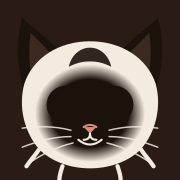
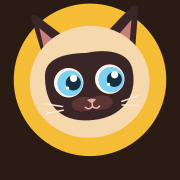
Azami kawaii Bauhaus d'après la base de Yatoni, une pose par page
Claude-Session: https://claude.ai/code/session_01FmbBbPYR3Uqmj4jvUphPos

diff --git a/azami.js b/azami.js
@@ -1,118 +1,128 @@
-// Azami en pied, une pose par page. Dessin vectoriel seal point, yeux bleus.
-// Les parties (tête, yeux, museau) sont partagées ; le corps et l'accessoire changent.
+// Azami, mascotte siamoise kawaii Bauhaus. Base fournie par Yatoni, déclinée en une pose par page.
+// Formes simples, aplats, aucun effet raster. Les animations sont dans styles.css (.azami …).
 
-const C = { seal: '#1C120C', seal2: '#3A2A20', creme: '#F3EBDF', ombre: '#DCCFBB', bleu: '#9CC4E4', bleuF: '#4E7FAE', nez: '#D98A7A', langue: '#E07A80', blanc: '#FFFFFF', fauve: '#B8A48F', bois: '#8E6A45' };
+const K = {
+  choc: '#3A2627', creme: '#F5D8AE', cremeClair: '#F8E4C7', cremeCorps: '#EECFA5',
+  blancOeil: '#FCF4E8', iris: '#7CD2F0', pupille: '#172D40', museau: '#5C3633',
+  nez: '#E6A5A1', bouche: '#F4B5AE', moustache: '#F9E9D5', oreille: '#C77F79',
+  jaune: '#F5BD36', bleu: '#3677A8', rouge: '#D95743', bois: '#B8864E', osier: '#D9B27A', piece: '#F5BD36', pieceBord: '#C7901E',
+};
 
-const DEFS = `<defs>
-  <radialGradient id="mask" cx="50%" cy="50%" r="50%"><stop offset="0" stop-color="${C.seal}"/><stop offset=".7" stop-color="${C.seal}"/><stop offset="1" stop-color="${C.seal}" stop-opacity="0"/></radialGradient>
-  <radialGradient id="iris" cx="40%" cy="35%" r="65%"><stop offset="0" stop-color="#D9EBF8"/><stop offset=".5" stop-color="${C.bleu}"/><stop offset="1" stop-color="${C.bleuF}"/></radialGradient>
-  <linearGradient id="point" x1="0" y1="0" x2="0" y2="1"><stop offset="0" stop-color="${C.creme}"/><stop offset="1" stop-color="${C.seal}"/></linearGradient>
-</defs>`;
+// Formes Bauhaus derrière Azami, en option.
+function fond({ circle = K.jaune, dot = K.bleu, square = K.rouge } = {}) {
+  return `<g class="fond">
+    ${circle ? `<circle cx="405" cy="344" r="233" fill="${circle}"/>` : ''}
+    ${dot ? `<circle cx="663" cy="206" r="51" fill="${dot}"/>` : ''}
+    ${square ? `<rect x="132" y="587" width="123" height="110" fill="${square}"/>` : ''}
+    <path d="M154 203 V461" fill="none" stroke="${K.choc}" stroke-width="8"/>
+  </g>`;
+}
 
-// Tête, repère local : centre du crâne en (0,0), largeur ~150. Oreilles orientables.
-function head({ earL = 0, earR = 0, open = 1, lookX = 0, lookY = 0, happy = false, lid = 0, mouth = 'smile', brows = false } = {}) {
-  const eye = (cx) => `
-    <circle cx="${cx}" cy="4" r="17" fill="${C.creme}"/>
-    <g style="transform:translate(${lookX}px,${lookY}px)">
-      <circle cx="${cx}" cy="4" r="12.5" fill="url(#iris)"/><circle cx="${cx}" cy="4.5" r="6.5" fill="#120C08"/>
-      <circle cx="${cx + 4}" cy="-1" r="3" fill="${C.blanc}"/><circle cx="${cx - 4}" cy="8" r="1.5" fill="${C.blanc}" opacity=".7"/>
+const queue = (cls = '') => `<g class="queue ${cls}"><path d="M519 579 C596 531 658 550 650 617 C648 645 626 664 600 660" fill="none" stroke="${K.choc}" stroke-width="43" stroke-linecap="round"/></g>`;
+
+const corps = () => `<g class="corps">
+  <ellipse cx="410" cy="574" rx="137" ry="141" fill="${K.cremeCorps}"/>
+  <ellipse cx="410" cy="581" rx="73" ry="102" fill="${K.cremeClair}"/>
+  <rect x="332" y="609" width="58" height="78" rx="29" fill="${K.choc}"/>
+  <rect x="430" y="609" width="58" height="78" rx="29" fill="${K.choc}"/>
+  <ellipse cx="359" cy="680" rx="43" ry="24" fill="${K.choc}"/>
+  <ellipse cx="460" cy="680" rx="43" ry="24" fill="${K.choc}"/>
+</g>`;
+
+// Yeux : look décale la pupille, lid 0..1 ferme la paupière, happy = œil fermé en arc de sourire.
+function oeil(cx, { look = [0, 0], lid = 0, happy = false, brow = 0 } = {}) {
+  const [lx, ly] = look;
+  return `<g class="oeil" style="transform-origin:${cx}px 347px">
+    <circle cx="${cx}" cy="347" r="45" fill="${K.blancOeil}"/>
+    <g style="transform:translate(${lx}px,${ly}px)">
+      <circle cx="${cx + 4}" cy="349" r="39" fill="${K.iris}"/>
+      <circle cx="${cx + 14}" cy="349" r="23" fill="${K.pupille}"/>
+      <circle cx="${cx + 16}" cy="335" r="11" fill="#FFFFFF"/>
+      <circle cx="${cx - 5}" cy="363" r="5" fill="#FFFFFF"/>
     </g>
-    ${happy ? `<circle cx="${cx}" cy="4" r="18" fill="${C.seal}"/><path d="M${cx - 13} 2 Q${cx} 16 ${cx + 13} 2" fill="none" stroke="${C.creme}" stroke-width="3" stroke-linecap="round"/>` : ''}
-    <g style="transform-origin:${cx}px -14px;transform:scaleY(${happy ? 0 : lid})"><circle cx="${cx}" cy="4" r="18" fill="${C.seal}"/></g>
-    ${happy ? '' : `<g class="blink" style="transform-origin:${cx}px -14px;transform:scaleY(0)"><circle cx="${cx}" cy="4" r="18" fill="${C.seal}"/></g>`}`;
-  const mouths = {
-    smile: `<path d="M0 31 Q0 37 -6 37 M0 31 Q0 37 6 37 M-11 37 Q0 46 11 37" fill="none" stroke="${C.creme}" stroke-width="2" stroke-linecap="round"/>`,
-    hmm:   `<path d="M0 31 Q0 37 -6 37 M0 31 Q0 37 6 37 M-8 41 Q0 39 9 42" fill="none" stroke="${C.creme}" stroke-width="2" stroke-linecap="round"/>`,
-    hungry:`<path d="M0 31 Q0 37 -6 37 M0 31 Q0 37 6 37" fill="none" stroke="${C.creme}" stroke-width="2" stroke-linecap="round"/><path d="M1 38 Q6 48 0 49 Q-5 49 -4 41" fill="${C.langue}" stroke="${C.creme}" stroke-width="1"/>`,
-    yawn:  `<ellipse cx="0" cy="40" rx="8" ry="9" fill="${C.seal2}" stroke="${C.creme}" stroke-width="1.6"/><path d="M-4 45 Q0 50 4 45 Z" fill="${C.langue}"/>`,
-    meow:  `<path d="M0 31 Q0 36 -5 36 M0 31 Q0 36 5 36" fill="none" stroke="${C.creme}" stroke-width="2" stroke-linecap="round"/><ellipse cx="0" cy="42" rx="6" ry="5.5" fill="${C.seal2}" stroke="${C.creme}" stroke-width="1.6"/>`,
+    ${happy ? `<circle cx="${cx}" cy="347" r="47" fill="${K.choc}"/><path d="M${cx - 30} 352 Q${cx} 386 ${cx + 30} 352" fill="none" stroke="${K.blancOeil}" stroke-width="9" stroke-linecap="round"/>` : ''}
+    ${lid ? `<g style="transform-origin:${cx}px 300px;transform:scaleY(${lid})"><circle cx="${cx}" cy="347" r="47" fill="${K.choc}"/></g>` : ''}
+    ${brow ? `<path d="M${cx - 44} ${300 - brow * 8} L${cx + 40} ${300 + brow * 12}" stroke="${K.choc}" stroke-width="14" stroke-linecap="round" transform="${brow < 0 ? `scale(-1 1) translate(${-2 * cx} 0)` : ''}"/>` : ''}
+    ${happy ? '' : `<g class="paupiere" style="transform-origin:${cx}px 300px;transform:scaleY(0)"><circle cx="${cx}" cy="347" r="47" fill="${K.choc}"/></g>`}
+  </g>`;
+}
+
+function bouche(kind = 'smile') {
+  const m = {
+    smile: `<path d="M407 417 V425 M407 425 Q396 438 385 426 M407 425 Q418 438 429 426" fill="none" stroke="${K.bouche}" stroke-width="4.5" stroke-linecap="round" stroke-linejoin="round"/>`,
+    hmm:   `<path d="M407 417 V425 M392 432 Q407 428 424 434" fill="none" stroke="${K.bouche}" stroke-width="4.5" stroke-linecap="round"/>`,
+    tongue:`<path d="M407 417 V425 M407 425 Q396 438 385 426 M407 425 Q418 438 429 426" fill="none" stroke="${K.bouche}" stroke-width="4.5" stroke-linecap="round" stroke-linejoin="round"/><path d="M398 432 Q407 456 418 432 Z" fill="${K.nez}"/>`,
+    open:  `<ellipse cx="407" cy="436" rx="14" ry="17" fill="${K.museau}" stroke="${K.bouche}" stroke-width="4"/><path d="M398 444 Q407 456 416 444 Z" fill="${K.nez}"/>`,
+    yawn:  `<ellipse cx="407" cy="438" rx="18" ry="22" fill="${K.museau}" stroke="${K.bouche}" stroke-width="4"/><path d="M396 448 Q407 462 418 448 Z" fill="${K.nez}"/>`,
+    small: `<path d="M407 417 V424 M400 428 Q407 432 414 428" fill="none" stroke="${K.bouche}" stroke-width="4.5" stroke-linecap="round"/>`,
   };
-  return `<g class="head">
-    <g class="ear" style="transform-origin:-36px -22px;--r:${earL}deg;transform:rotate(${earL}deg)"><path d="M-62 -10 C-70 -34 -70 -58 -64 -78 C-48 -64 -32 -52 -18 -36 Z" fill="${C.seal}"/><path d="M-54 -16 C-58 -34 -58 -50 -56 -64 C-46 -54 -36 -44 -28 -34 Z" fill="${C.seal2}"/></g>
-    <g class="ear" style="transform-origin:36px -22px;--r:${earR}deg;transform:rotate(${earR}deg)"><path d="M62 -10 C70 -34 70 -58 64 -78 C48 -64 32 -52 18 -36 Z" fill="${C.seal}"/><path d="M54 -16 C58 -34 58 -50 56 -64 C46 -54 36 -44 28 -34 Z" fill="${C.seal2}"/></g>
-    <path d="M0 -56 C30 -56 54 -40 62 -16 C68 6 62 30 48 46 C36 58 18 64 0 64 C-18 64 -36 58 -48 46 C-62 30 -68 6 -62 -16 C-54 -40 -30 -56 0 -56 Z" fill="${C.creme}"/>
-    <path d="M-48 46 C-52 52 -56 56 -60 62 M48 46 C52 52 56 56 60 62 M-26 62 C-28 68 -29 72 -29 76 M26 62 C28 68 29 72 29 76" stroke="${C.creme}" stroke-width="4" stroke-linecap="round"/>
-    <ellipse cx="0" cy="12" rx="52" ry="46" fill="url(#mask)"/>
-    <path d="M0 -50 C10 -50 18 -42 20 -32 C12 -36 6 -37 0 -37 C-6 -37 -12 -36 -20 -32 C-18 -42 -10 -50 0 -50 Z" fill="${C.seal}" opacity=".9"/>
-    ${brows ? `<path d="M-42 -20 L-16 -10 M42 -20 L16 -10" stroke="${C.seal}" stroke-width="3.5" stroke-linecap="round"/>` : ''}
-    ${eye(-23)}${eye(23)}
-    <path d="M-6 25 L6 25 L0 31 Z" fill="${C.nez}"/><path d="M-6 25 Q0 21 6 25" fill="none" stroke="${C.nez}" stroke-width="2" stroke-linecap="round"/>
-    ${mouths[mouth] || mouths.smile}
-    <g stroke="${C.creme}" stroke-width="1.4" stroke-linecap="round" opacity=".85" fill="none"><path d="M-18 28 C-34 24 -48 24 -64 26 M-18 34 C-34 34 -48 38 -64 44 M-16 40 C-32 44 -44 50 -56 58 M18 28 C34 24 48 24 64 26 M18 34 C34 34 48 38 64 44 M16 40 C32 44 44 50 56 58"/></g>
-  </g>`;
+  return m[kind] || m.smile;
 }
 
-// Corps assis de face : poitrail crème, pattes avant seal, queue seal.
-function sitBody({ tail = 'left' } = {}) {
-  const t = tail === 'left'
-    ? `<path d="M-58 150 C-100 150 -120 120 -112 92 C-108 78 -96 72 -88 78" fill="none" stroke="${C.seal}" stroke-width="16" stroke-linecap="round"/>`
-    : `<path d="M58 150 C100 150 120 120 112 92 C108 78 96 72 88 78" fill="none" stroke="${C.seal}" stroke-width="16" stroke-linecap="round"/>`;
-  return `<g class="body">
-    ${t}
-    <path d="M0 40 C44 40 76 70 78 112 C80 134 70 152 56 158 L-56 158 C-70 152 -80 134 -78 112 C-76 70 -44 40 0 40 Z" fill="${C.creme}"/>
-    <path d="M-70 128 C-70 140 -64 152 -56 158 L-28 158 C-30 146 -36 134 -46 126 Z M70 128 C70 140 64 152 56 158 L28 158 C30 146 36 134 46 126 Z" fill="${C.ombre}"/>
-    <path d="M-40 100 C-40 130 -40 150 -38 158 L-18 158 C-16 146 -18 128 -22 104 Z" fill="url(#point)"/>
-    <path d="M40 100 C40 130 40 150 38 158 L18 158 C16 146 18 128 22 104 Z" fill="url(#point)"/>
-    <ellipse cx="-29" cy="158" rx="13" ry="7" fill="${C.seal}"/><ellipse cx="29" cy="158" rx="13" ry="7" fill="${C.seal}"/>
-    <g fill="${C.seal2}"><circle cx="-36" cy="157" r="2"/><circle cx="-29" cy="155" r="2"/><circle cx="-22" cy="157" r="2"/><circle cx="22" cy="157" r="2"/><circle cx="29" cy="155" r="2"/><circle cx="36" cy="157" r="2"/></g>
-  </g>`;
+function tete({ tilt = -5, look, lid, happy, brows = 0, mouth = 'smile', extra = '' } = {}) {
+  return `<g class="tete-mobile"><g transform="rotate(${tilt} 406 363)">
+    <path d="M274 282 L245 143 Q242 125 262 135 L356 220 Z" fill="${K.choc}"/>
+    <path d="M449 222 L552 132 Q571 122 572 143 L548 288 Z" fill="${K.choc}"/>
+    <path d="M277 253 L266 173 L324 231 Z" fill="${K.oreille}"/>
+    <path d="M485 234 L549 172 L534 258 Z" fill="${K.oreille}"/>
+    <ellipse cx="405" cy="350" rx="183" ry="171" fill="${K.creme}"/>
+    <path d="M270 327 C271 270 327 256 403 261 C481 252 536 276 539 327 C547 408 492 466 408 467 C313 470 264 417 270 327 Z" fill="${K.choc}"/>
+    ${oeil(341, { look, lid, happy, brow: brows })}
+    ${oeil(467, { look, lid, happy, brow: -brows })}
+    <ellipse cx="380" cy="416" rx="36" ry="22" fill="${K.museau}"/>
+    <ellipse cx="434" cy="416" rx="36" ry="22" fill="${K.museau}"/>
+    <path d="M392 405 Q406 398 420 405 L407 417 Z" fill="${K.nez}"/>
+    ${bouche(mouth)}
+    <path d="M316 418 L264 405 M317 429 L266 435 M498 418 L550 405 M498 429 L548 435" fill="none" stroke="${K.moustache}" stroke-width="4.5" stroke-linecap="round"/>
+    ${extra}
+  </g></g>`;
 }
 
-const svg = (inner, vb = '-150 -90 300 270') => `<svg class="azami" viewBox="${vb}" aria-hidden="true">${DEFS}${inner}</svg>`;
+const svg = (inner, vb = '110 100 580 620') => `<svg class="azami" viewBox="${vb}" aria-hidden="true">${inner}</svg>`;
 
 export const AZAMI = {
-  // Accueil : assise bien droite, queue enroulée, contente de vous voir.
-  maison: () => svg(sitBody({ tail: 'left' }) + head({ mouth: 'smile', lookX: 0, lookY: 0 })),
+  // Accueil : la base, telle quelle. Queue qui remue, tête qui s'incline, clignements.
+  maison: () => svg(fond() + queue() + corps() + tete()),
 
-  // Ménage : debout sur ses pattes arrière, balai dans les pattes, sourcils froncés.
-  menage: () => svg(`
-    <g class="body">
-      <path d="M46 170 C70 170 86 140 82 100 C78 70 48 56 24 62 L-24 62 C-48 56 -78 70 -82 100 C-86 140 -70 170 -46 170 Z" fill="${C.creme}"/>
-      <path d="M-30 110 C-32 140 -30 160 -26 170 L-6 170 C-4 150 -8 126 -14 108 Z M30 110 C32 140 30 160 26 170 L6 170 C4 150 8 126 14 108 Z" fill="url(#point)"/>
-      <ellipse cx="-18" cy="170" rx="14" ry="7" fill="${C.seal}"/><ellipse cx="18" cy="170" rx="14" ry="7" fill="${C.seal}"/>
-      <path d="M-70 168 C-110 160 -124 130 -112 104" fill="none" stroke="${C.seal}" stroke-width="14" stroke-linecap="round"/>
-      <g class="broom" style="transform-origin:62px 84px"><path d="M62 -60 L62 150" stroke="${C.bois}" stroke-width="6" stroke-linecap="round"/><path d="M44 148 L80 148 L90 178 L34 178 Z" fill="${C.fauve}"/><g stroke="${C.seal2}" stroke-width="1.6"><path d="M44 156 L40 176 M52 150 L50 178 M62 150 L62 178 M72 150 L74 178 M80 156 L84 176"/></g><rect x="52" y="140" width="20" height="9" rx="2" fill="${C.seal2}"/></g>
-      <path d="M-44 80 C-62 90 -66 106 -56 120" fill="none" stroke="${C.creme}" stroke-width="15" stroke-linecap="round"/><ellipse cx="-56" cy="122" rx="9" ry="8" fill="${C.seal}"/>
-      <path d="M44 76 C56 80 62 86 62 96" fill="none" stroke="${C.creme}" stroke-width="15" stroke-linecap="round"/><ellipse cx="62" cy="100" rx="9" ry="8" fill="${C.seal}"/>
-    </g>
-    ${head({ earL: -10, earR: 10, lid: .25, lookX: 2, mouth: 'hmm', brows: true })}`),
+  // Ménage : balai dans la patte, sourcils froncés, bouche décidée.
+  menage: () => svg(
+    fond({ circle: K.jaune }) + queue() + corps()
+    + `<g class="balai" style="transform-origin:560px 560px"><path d="M560 300 V640" stroke="${K.bois}" stroke-width="16" stroke-linecap="round"/><path d="M520 630 L600 630 L620 720 L500 720 Z" fill="${K.osier}"/><path d="M522 650 L512 716 M540 636 L536 718 M560 634 L560 718 M580 636 L584 718 M598 650 L608 716" stroke="${K.bois}" stroke-width="4"/><rect x="536" y="612" width="48" height="22" rx="6" fill="${K.choc}"/></g>
+       <rect x="500" y="520" width="58" height="78" rx="29" fill="${K.choc}" transform="rotate(-40 529 559)"/>`
+    + tete({ tilt: 3, look: [6, -4], brows: 1, mouth: 'hmm' })
+  ),
 
-  // Courses : assise dans un cabas en osier, une sardine dans la patte, la langue sortie.
-  courses: () => svg(`
-    <path d="M-100 90 L100 90 L88 176 L-88 176 Z" fill="${C.fauve}"/>
-    <g stroke="${C.seal2}" stroke-width="1.5" opacity=".6"><path d="M-96 108 L96 108 M-94 126 L94 126 M-92 144 L92 144 M-90 162 L90 162"/><path d="M-70 90 L-64 176 M-40 90 L-36 176 M-10 90 L-8 176 M20 90 L18 176 M50 90 L46 176 M80 90 L74 176"/></g>
-    <path d="M-60 90 C-60 50 60 50 60 90" fill="none" stroke="${C.bois}" stroke-width="7" stroke-linecap="round"/>
-    <g style="transform:translate(0,-10px) scale(.92)">
-      ${sitBody({ tail: 'right' })}
-    </g>
-    <g class="fish" style="transform-origin:90px 80px"><path d="M66 80 C80 64 102 64 116 80 C102 96 80 96 66 80 Z" fill="${C.bleu}"/><path d="M116 80 L132 70 L126 80 L132 90 Z" fill="${C.bleu}"/><circle cx="78" cy="77" r="2.5" fill="${C.seal}"/><path d="M96 72 C104 80 104 84 98 90" fill="none" stroke="${C.bleuF}" stroke-width="1.5"/></g>
-    <path d="M-100 90 L100 90 L96 118 L-96 118 Z" fill="${C.fauve}"/>
-    <path d="M-96 108 L96 108" stroke="${C.seal2}" stroke-width="1.5" opacity=".6"/>
-    ${head({ earL: 4, earR: -4, happy: true, mouth: 'hungry' })}`),
+  // Courses : dans un cabas en osier, une sardine, la langue sortie, yeux ravis.
+  courses: () => svg(
+    fond({ square: null }) + queue()
+    + `<path d="M250 560 C250 500 570 500 570 560" fill="none" stroke="${K.bois}" stroke-width="18" stroke-linecap="round"/>`
+    + corps()
+    + `<path d="M232 600 L588 600 L566 740 L254 740 Z" fill="${K.osier}"/>
+       <g stroke="${K.bois}" stroke-width="4" opacity=".8"><path d="M240 634 H580 M246 668 H574 M252 702 H568"/><path d="M300 600 L306 740 M380 600 L382 740 M460 600 L458 740 M540 600 L534 740"/></g>
+       <g class="poisson" style="transform-origin:590px 580px"><path d="M560 580 C590 548 640 548 670 580 C640 612 590 612 560 580 Z" fill="${K.bleu}"/><path d="M670 580 L706 556 L694 580 L706 604 Z" fill="${K.bleu}"/><circle cx="590" cy="574" r="6" fill="${K.choc}"/></g>`
+    + tete({ tilt: -8, happy: true, mouth: 'tongue' })
+  ),
 
-  // Argent : à sa petite table, lunettes, piles de pièces, une pièce entre les coussinets.
-  argent: () => svg(`
-    ${sitBody({ tail: 'left' })}
-    <rect x="-120" y="118" width="240" height="12" rx="3" fill="${C.bois}"/><rect x="-108" y="130" width="10" height="46" fill="${C.bois}"/><rect x="98" y="130" width="10" height="46" fill="${C.bois}"/>
-    <g class="coins"><g fill="#E6C25A" stroke="#B8923A" stroke-width="2"><rect x="-100" y="106" width="36" height="7" rx="3"/><rect x="-100" y="98" width="36" height="7" rx="3"/><rect x="-100" y="90" width="36" height="7" rx="3"/><rect x="-100" y="82" width="36" height="7" rx="3"/><rect x="60" y="106" width="36" height="7" rx="3"/><rect x="60" y="98" width="36" height="7" rx="3"/><rect x="66" y="90" width="24" height="7" rx="3"/></g>
-    <g class="coin" style="transform-origin:0px 100px"><circle cx="0" cy="100" r="17" fill="#E6C25A" stroke="#B8923A" stroke-width="2.5"/><text x="0" y="106" text-anchor="middle" font-family="Hanken Grotesk, sans-serif" font-size="15" font-weight="800" fill="#8A6A20">1</text></g></g>
-    <path d="M-34 96 C-30 106 -22 112 -12 112 M34 96 C30 106 22 112 12 112" fill="none" stroke="${C.seal}" stroke-width="14" stroke-linecap="round"/>
-    ${head({ lookY: 7, lid: .18, mouth: 'hmm' })}
-    <g fill="none" stroke="${C.fauve}" stroke-width="2.5"><circle cx="-23" cy="4" r="21"/><circle cx="23" cy="4" r="21"/><path d="M-2 4 L2 4 M-44 2 L-60 -6 M44 2 L60 -6"/></g>`),
+  // Argent : lunettes rondes, pièces empilées, une pièce entre les pattes, regard vers le bas.
+  argent: () => svg(
+    fond({ circle: K.jaune, square: null }) + queue() + corps()
+    + `<rect x="150" y="640" width="520" height="22" rx="6" fill="${K.bois}"/>
+       <g fill="${K.piece}" stroke="${K.pieceBord}" stroke-width="4"><rect x="176" y="616" width="90" height="22" rx="11"/><rect x="180" y="594" width="90" height="22" rx="11"/><rect x="176" y="572" width="90" height="22" rx="11"/><rect x="560" y="616" width="90" height="22" rx="11"/><rect x="556" y="594" width="90" height="22" rx="11"/></g>
+       <g class="piece" style="transform-origin:410px 600px"><circle cx="410" cy="600" r="42" fill="${K.piece}" stroke="${K.pieceBord}" stroke-width="5"/><text x="410" y="614" text-anchor="middle" font-family="Hanken Grotesk, Arial, sans-serif" font-size="40" font-weight="800" fill="${K.pieceBord}">1</text></g>
+       <rect x="332" y="560" width="58" height="78" rx="29" fill="${K.choc}" transform="rotate(35 361 599)"/><rect x="430" y="560" width="58" height="78" rx="29" fill="${K.choc}" transform="rotate(-35 459 599)"/>`
+    + tete({ tilt: -3, look: [0, 12], lid: .22, mouth: 'small', extra: `<g fill="none" stroke="${K.choc}" stroke-width="9"><circle cx="341" cy="347" r="56"/><circle cx="467" cy="347" r="56"/><path d="M397 347 H411 M285 340 L240 320 M523 340 L568 320"/></g>` })
+  ),
 
-  // Nuit : roulée en boule, queue sur le nez, petit ronflement.
-  nuit: () => svg(`
-    <ellipse cx="0" cy="120" rx="118" ry="58" fill="${C.creme}"/>
-    <path d="M-60 150 C-40 174 20 176 60 160" fill="none" stroke="${C.ombre}" stroke-width="10" stroke-linecap="round"/>
-    <path d="M110 120 C130 100 110 70 70 80 C40 88 20 100 0 106" fill="none" stroke="${C.seal}" stroke-width="16" stroke-linecap="round"/>
-    <ellipse cx="-78" cy="158" rx="16" ry="8" fill="${C.seal}"/><ellipse cx="-50" cy="164" rx="16" ry="8" fill="${C.seal}"/>
-    <g style="transform:translate(-30px,88px) rotate(-12deg) scale(.9)">${head({ earL: 10, earR: -6, lid: .9, lookY: 4, mouth: 'smile' })}</g>
-    <path class="zz" d="M70 10 L88 10 L70 28 L88 28" fill="none" stroke="${C.bleu}" stroke-width="3" stroke-linecap="round" stroke-linejoin="round"/>
-    <path class="zz z2" d="M96 -18 L108 -18 L96 -6 L108 -6" fill="none" stroke="${C.bleu}" stroke-width="2.5" stroke-linecap="round" stroke-linejoin="round"/>`),
+  // Nuit : yeux fermés, bâillement, croissant de lune et petits Z.
+  nuit: () => svg(
+    fond({ circle: '#2E4C64', dot: K.jaune, square: null }) + queue() + corps()
+    + tete({ tilt: 8, lid: .92, mouth: 'yawn' })
+    + `<g class="zz"><path d="M600 300 H650 L600 350 H650" fill="none" stroke="${K.jaune}" stroke-width="10" stroke-linecap="round" stroke-linejoin="round"/></g><g class="zz z2"><path d="M650 220 H684 L650 254 H684" fill="none" stroke="${K.jaune}" stroke-width="8" stroke-linecap="round" stroke-linejoin="round"/></g>`
+  ),
 
-  // Miaulement : debout, bouche ouverte, utilisée un instant quand Azami miaule.
-  meow: () => svg(sitBody({ tail: 'right' }) + head({ earL: -4, earR: 4, happy: true, mouth: 'meow' })),
+  // Miaulement : bouche grande ouverte, yeux fermés de plaisir.
+  meow: () => svg(fond() + queue('vite') + corps() + tete({ tilt: -10, happy: true, mouth: 'open' })),
 
-  // Icône : tête seule, cadrée serré.
-  icon: () => svg(head({ mouth: 'smile' }), '-85 -95 170 170'),
+  // Icône : tête seule sur le cercle jaune.
+  icon: () => svg(`<rect x="130" y="100" width="550" height="550" fill="#2A1C15"/><circle cx="405" cy="344" r="233" fill="${K.jaune}"/>` + tete({ tilt: -5 }), '130 100 550 550'),
 };

diff --git a/styles.css b/styles.css
@@ -232,31 +232,32 @@ details.fold[open] > summary::before { content: "− "; }
 .glance .g-num { font-weight: 800; font-size: 18px; flex: none; }
 .glance .late { color: var(--bleu); font-weight: 700; }
 
-/* Azami : une pose par page, animée doucement ------------------------- */
+/* Azami : une pose par page, kawaii Bauhaus, animée doucement ------------ */
 
-.azami { display: block; width: 190px; height: 171px; margin: 4px auto 0; }
-.azami-btn { all: unset; cursor: pointer; display: block; width: 190px; margin: 0 auto; }
-.azami-btn:focus-visible { outline: 2px solid var(--bleu); outline-offset: 4px; border-radius: 20px; }
-.azami .blink { animation: blink 6s ease-in-out infinite; }
-.azami .eye + .eye .blink { animation-delay: .05s; }
-@keyframes blink { 0%, 90%, 100% { transform: scaleY(0); } 93% { transform: scaleY(1); } }
-.azami .ear { animation: twitch 7s ease-in-out infinite; }
-.azami .ear + .ear { animation-delay: 3.5s; }
-@keyframes twitch { 0%, 82%, 100% { transform: rotate(var(--r, 0deg)); } 86% { transform: rotate(calc(var(--r, 0deg) - 8deg)); } 90% { transform: rotate(calc(var(--r, 0deg) + 3deg)); } }
-.azami .coin { animation: flip 4s ease-in-out infinite; }
-@keyframes flip { 0%, 70%, 100% { transform: scaleX(1); } 85% { transform: scaleX(-1); } }
-.azami .zz { animation: float 3s ease-in-out infinite; opacity: 0; }
-.azami .z2 { animation-delay: 1.2s; }
-@keyframes float { 0% { transform: translateY(6px); opacity: 0; } 30%, 60% { opacity: 1; } 100% { transform: translateY(-14px); opacity: 0; } }
-.azami .fish { animation: wiggle 2.4s ease-in-out infinite; }
-@keyframes wiggle { 0%, 100% { transform: rotate(0); } 50% { transform: rotate(-8deg); } }
-.azami .broom { animation: sweep 3s ease-in-out infinite; }
-@keyframes sweep { 0%, 100% { transform: rotate(0); } 50% { transform: rotate(-6deg); } }
+.azami { display: block; width: 210px; height: 225px; margin: 0 auto; }
+.azami-btn { all: unset; cursor: pointer; display: block; width: 210px; margin: 0 auto; }
+.azami-btn:focus-visible { outline: 2px solid var(--bleu); outline-offset: 4px; border-radius: 24px; }
+.azami .queue { transform-origin: 520px 576px; animation: remue 3.2s ease-in-out infinite; }
+.azami .queue.vite { animation-duration: .6s; }
+@keyframes remue { 0%, 100% { transform: rotate(-10deg); } 50% { transform: rotate(8deg); } }
+.azami .paupiere { animation: clignement 5.4s ease-in-out infinite; }
+@keyframes clignement { 0%, 40%, 44%, 100% { transform: scaleY(0); } 42% { transform: scaleY(1); } }
+.azami .tete-mobile { transform-origin: 405px 490px; animation: inclination 4.6s ease-in-out infinite; }
+@keyframes inclination { 0%, 100% { transform: rotate(-2deg); } 50% { transform: rotate(2deg); } }
+.azami .balai { animation: balaie 2.6s ease-in-out infinite; }
+@keyframes balaie { 0%, 100% { transform: rotate(0); } 50% { transform: rotate(-7deg); } }
+.azami .poisson { animation: fretille 1.8s ease-in-out infinite; }
+@keyframes fretille { 0%, 100% { transform: rotate(0); } 50% { transform: rotate(-10deg); } }
+.azami .piece { animation: retourne 4s ease-in-out infinite; }
+@keyframes retourne { 0%, 70%, 100% { transform: scaleX(1); } 85% { transform: scaleX(-1); } }
+.azami .zz { animation: monte 3s ease-in-out infinite; opacity: 0; }
+.azami .z2 { animation-delay: 1.3s; }
+@keyframes monte { 0% { transform: translateY(20px); opacity: 0; } 30%, 60% { opacity: 1; } 100% { transform: translateY(-40px); opacity: 0; } }
 .hd.centered { text-align: center; }
 .hd.centered .hd-kicker { margin-top: 6px; }
-.hd.row { display: grid; grid-template-columns: 1fr auto; align-items: end; gap: 10px; }
-.hd.row .azami { width: 132px; height: 119px; margin: 0; }
-.hd.row .azami-btn { width: 132px; margin: 0; }
+.hd.row { display: grid; grid-template-columns: 1fr auto; align-items: end; gap: 6px; }
+.hd.row .azami { width: 140px; height: 150px; margin: 0; }
+.hd.row .azami-btn { width: 140px; margin: 0; }
 
 /* Tableau ---------------------------------------------------------------- */
 
